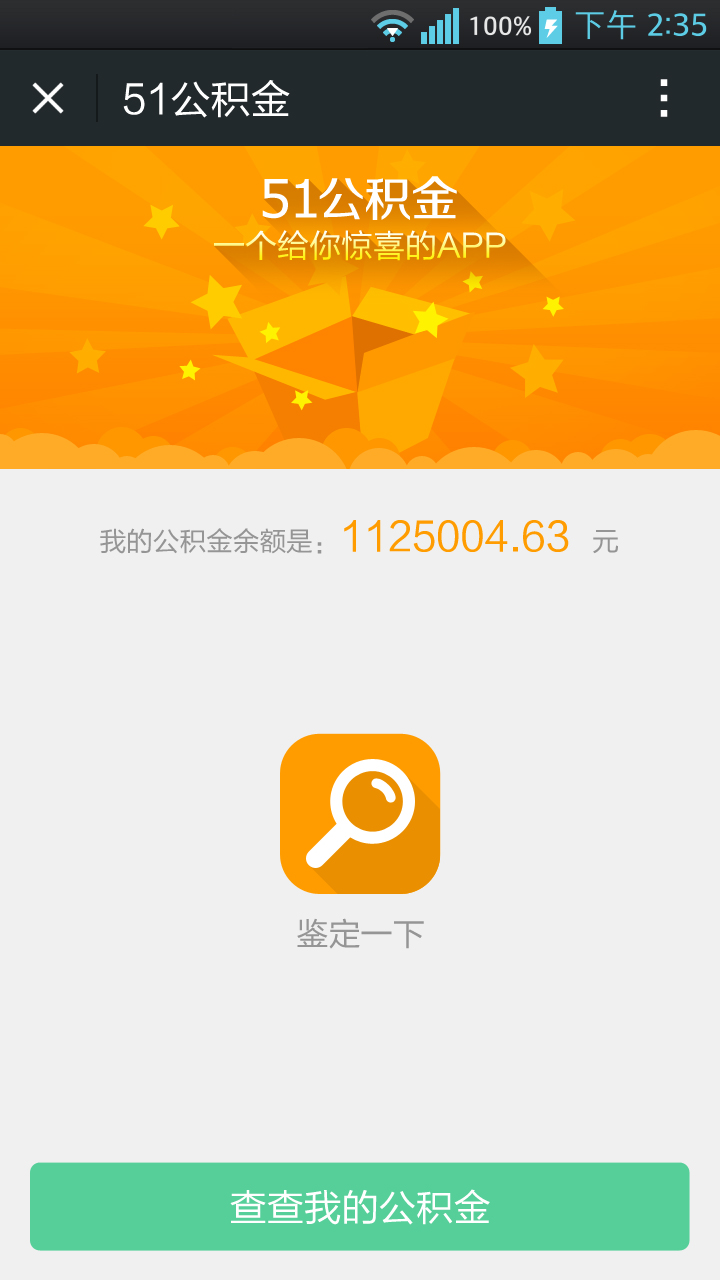
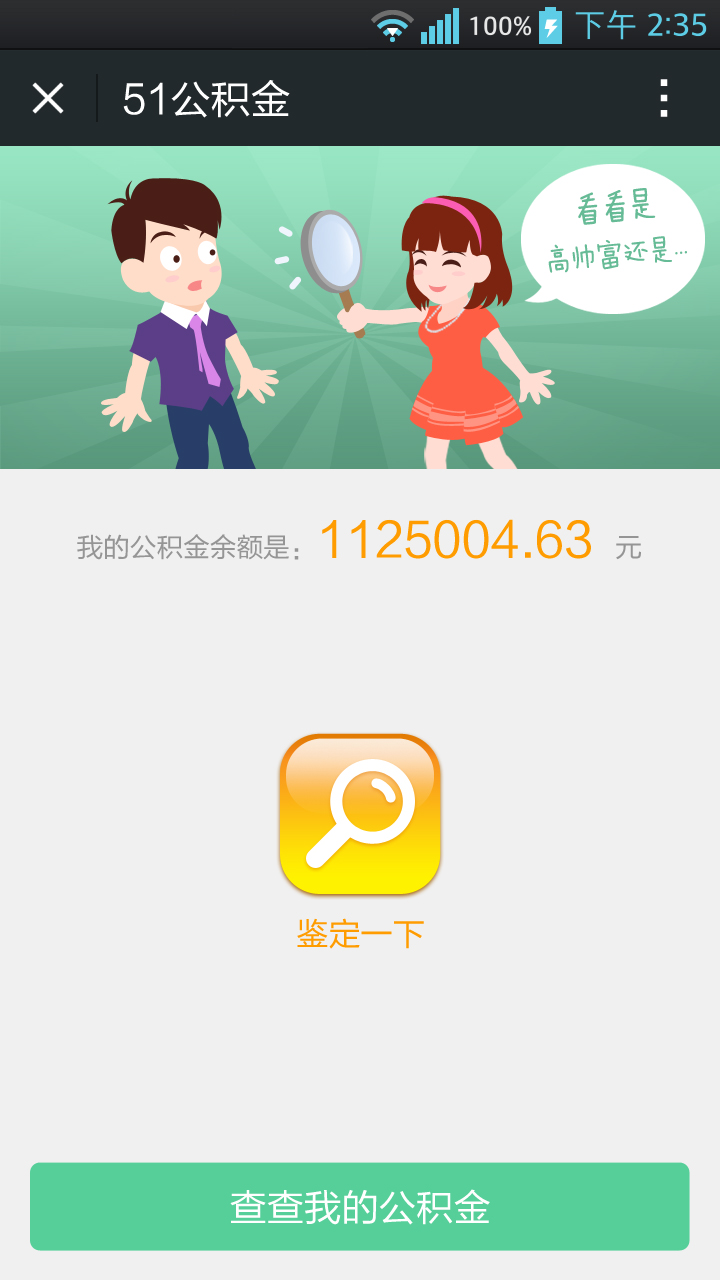
2.commit

diff --git a/index.html b/index.html
@@ -25,41 +25,68 @@
         //跳转语句，如果是手机访问就自动跳转到wap.baidu.com页面 
         window.onload=function(){ 
         var sc=document.getElementById("body");
-        if (system.win || system.mac || system.xll||system.ipad) { 
- 			sc.setAttribute("style","height:2000px;width:100%;margin:0px; background-color: #F0F0F0;font-size: 100%;"); 
+        var main=document.getElementById("main");
+        //var main2=document.getElementById("main2");
+        if (system.win || system.mac || system.xll) { 
+ 			sc.setAttribute("style","height:1000px;width:600px;margin:0px auto; background-color: #FCFCFC;font-size: 70%;"); 
+ 			main.setAttribute("style","width:100%;height:100%;background-color: #F0F0F0;margin:0 auto;"); 
+ 			//main2.setAttribute("style","width:600px;position:absolute;left:0px;top:0px;display: none;height:47%;margin-top: 42%;margin-bottom: 10%;");
         }
-        else  {sc.setAttribute("style","margin:0px; background-color: #F0F0F0;font-size:120%;"); }
+        else  {
+        	sc.setAttribute("style","margin:0px; background-color: #F0F0F0;font-size:120%;"); 
+        	main.setAttribute("style","display:none;");
+        	//main2.setAttribute("style","position:absolute;left:0px;top:0px;display: none;width:100%;height:47%;margin-top: 42%;margin-bottom: 10%;")
+    	}
     	}
 	</script> 
 
 </head>
 <body  id="body">
+	<div id="main">
+
+	<div id="page1">
 	<div class="header">
 		<img id="img1" src="photo\BG.png"></img>
 	</div>
+
 	<div class="show">我的公积金余额是：<h id="number">1125004.63</h>元</div>
 
-		<div class="main1" >
-			<img id="img2" src="photo\anniu1.png">
-			<br><div id="identify">鉴定一下</div></br>
-		</div>
+	<div class="main1" >
+		<img id="img2" src="photo\anniu1.png">
+		<br><div id="identify">鉴定一下</div></br>
+	</div>
 	
-		<div class="main2">
-			<div class="calculate">
-				<div class="describe">
-					<div class="text">
-						<br><span id="son">打败全国1%的对手!</span><br><br>被鉴定为“富可敌国!”
-					</div>
-					<div class="img">
-						<div id="img3"><img  src="photo\rank\7.png"></img></div>
-						<h id="imgdescribe">富可敌国</h>
-					</div>	
+	
+	<div id="page2">
+	<div id="main2">
+		<div class="calculate">
+			<div class="describe">
+				<div class="text">
+					<br><span id="son">打败全国1%的对手!</span><br><br>被鉴定为“富可敌国!”
 				</div>
-				<img id="ipoint" src="photo\anniu3.png"></img>
+				<div class="img">
+					<div id="img3"><img  src="photo\rank\7.png"></img></div>
+					<h id="imgdescribe">富可敌国</h>
+				</div>	
 			</div>
-				
-			<div class="sum"><span id="sum1">被抱了</span> <span id="opoint">168</span><span id="sum2"> 次大腿</span></div>
 		</div>
+				
+		<div class="sum">
+			<img id="ipoint" src="photo\anniu3.png"></img>
+			<span id="sum1">被抱了</span> <span id="opoint">168</span><span id="sum2"> 次大腿</span>
+		</div>
+	</div>
+	</div>
+
+	<div class="footer" id="footer">
+	<div id="img5" style="background-image: url(photo/anniu2.png);background-size: 100% 100%;">
+		<a href="http://zfgjj.jianbing.com/m/">查查我的公积金</a>
+	</div>	
+	</div>
+
+	</div>
+	</div>
+
 
 	<script>/*修改*/
 	var beatson = Math.floor(Math.random()*100);
@@ -83,8 +110,9 @@
 	var alreadyHuggedNum = 168;
 
 	$("img").click(function(){
-		$('.main1').hide();
-		$('.main2').show();
+		//$('.main1').hide();
+		$('#page2').show();
+		document.getElementById("footer").style.backgroundColor="rgba(144,144,144,0.5)";
 	});
 
 
@@ -100,13 +128,5 @@
 		}
 		);
 	</script>
-
-	<div class="footer" >
-		<div id="img5" style="background-image: url(photo/anniu2.png);
-	background-size: 100% 100%;">
-			<a href="http://zfgjj.jianbing.com/m/">查查我的公积金</a>
-		</div>
-		
-	</div>
 </body>
 </html>

diff --git a/css/index.css b/css/index.css
@@ -11,7 +11,6 @@
 	background-color: #F0F0F0;
 }
 } 
-
 .header{
 	width: 100%;
 	height:29%;
@@ -30,12 +29,12 @@ a{
 	text-align: center;
 	font-family: "Microsoft YaHei";
 	color:#959595;
-	font-size: 200%;
+	font-size: 150%;
 	line-height: 500%;
 }
 #number{
 	color:#FF9700;
-	font-size: 120%;
+	font-size: 200%;
 }
 .main1{
 	width:100%;
@@ -47,17 +46,35 @@ a{
 #img2{
 	height:auto;
 	width:25%;
+	margin-top: 15%;
 }
 #identify{
 	font-family: "Microsoft YaHei";
-	color:#959595;
+	color:#FF9700;
 	font-size: 200%;
 	line-height: 200%;
 }
-.main2{
+#page1{
+	width:100%;
+	height:100%;
+	position: relative;
+}
+#page2{
 	display: none;
+	width: 100%;
+	position: absolute;
+	left: 0px;
+	top:0px;
+	height:89%;
+	margin: 0 auto;
+	z-index: 9;
+	background-color: rgb(144,144,144);
+	background-color: rgba(144,144,144,0.5);
+}
+#main2{
 	width:100%;
 	height:47%;
+	margin-top:70%;
 }
 .calculate{
 	background-color: #FFFFFF;
@@ -66,13 +83,14 @@ a{
 	padding: 0px;
 }
 .describe{
-	height:60%;
+	padding-top: 10%;
+	padding-bottom: 10%;
+	height:53%;
 }
 .text{
 	height:100%;
 	width:60%;
 	float:left;
-	margin-left: 10%;
 	text-align: center;
 	line-height: 100%;
 	font-size: 200%;
@@ -81,7 +99,7 @@ a{
 .img{
 	height:100%;
 	width:30%;
-	float:right;
+	float:left;
 	color: #FFFFFF;
 	text-align: center;
 }
@@ -102,24 +120,24 @@ img{
 	font-size: 200%;
 }
 #ipoint{
-	height:25%;/*修改*/
-	float:right;
+	height: 60%;
+	float:left;
+	margin-left: 20%;
 	margin-right: 5%;
 	color:#CF8A3D;
 	background-color: #FFFFFF; 
 	border-style: none;
 	border-width: 0px;
-	border:#F0F0F0 solid 1px;
-	border-radius:10px;
+	border:#F0F0F0;
+	border-radius:5px;
 }
 
 .sum{
-	height:45%;
-	text-align: center;
+	height:15%;
 	color:#959595;
 	font-family: "Microsoft YaHei";
 	font-size: 200%;
-	line-height: 300%;
+	background-color: #FFFFFF;
 }
 #opoint{
 	border-style: none;
@@ -133,11 +151,12 @@ img{
 	font-size: 120%;
 	text-align: center;
 }
-.footer{
+#footer{
 	width:100%;
 	height:10%;
 	text-align: center;
 	font-family: "Microsoft YaHei";
+	background-color: #F0F0F0;
 }
 #img5{
 	height: 80%;
